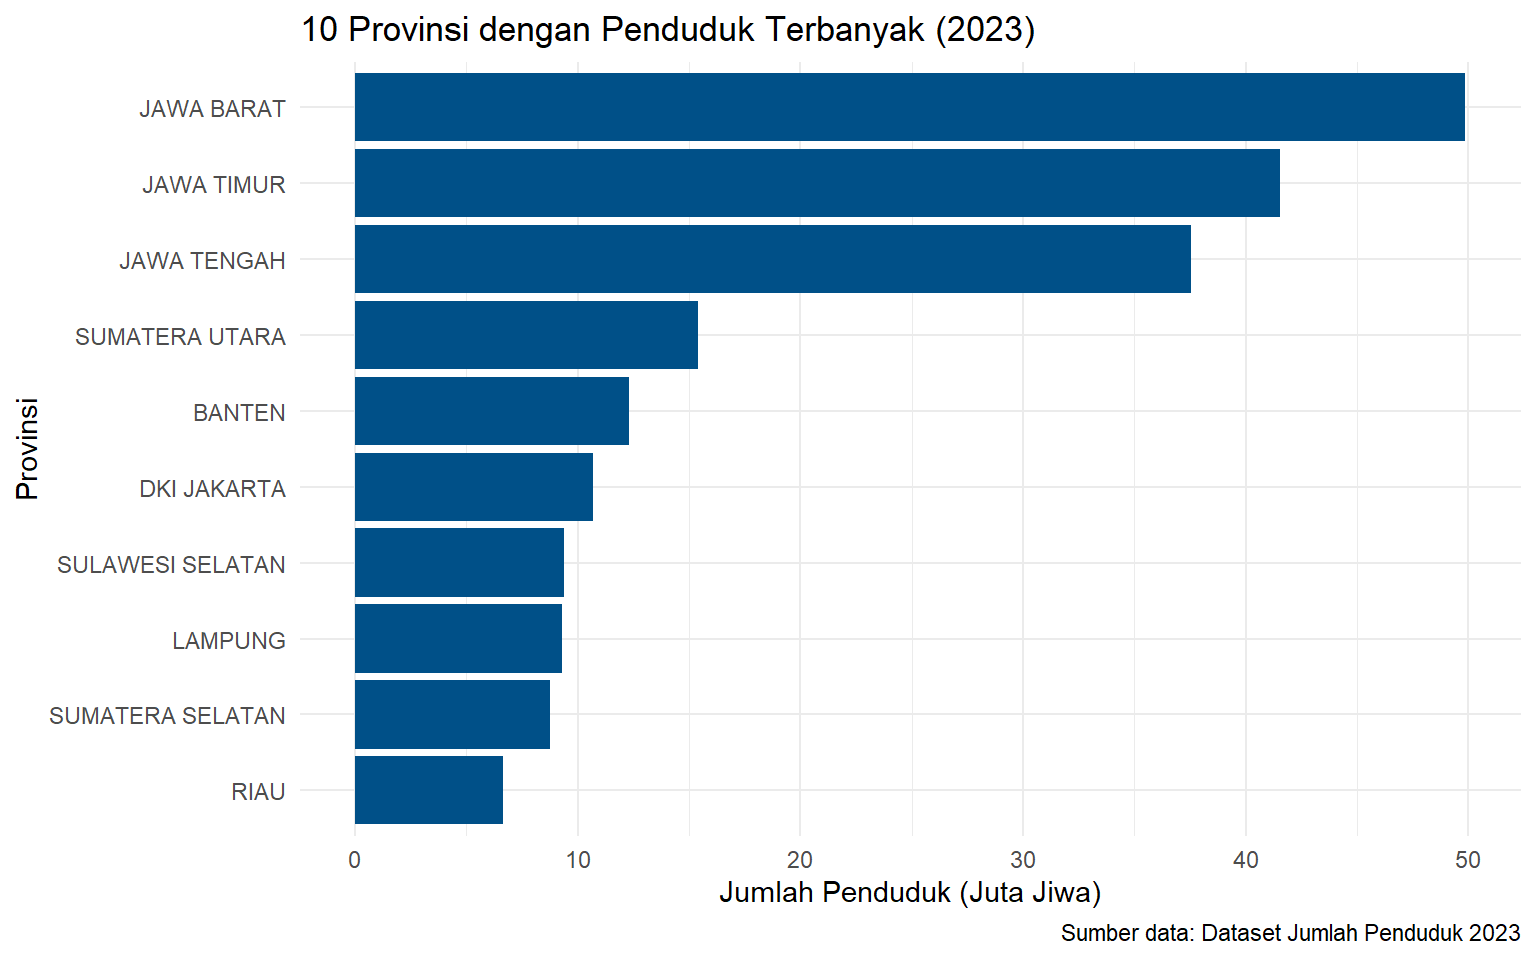
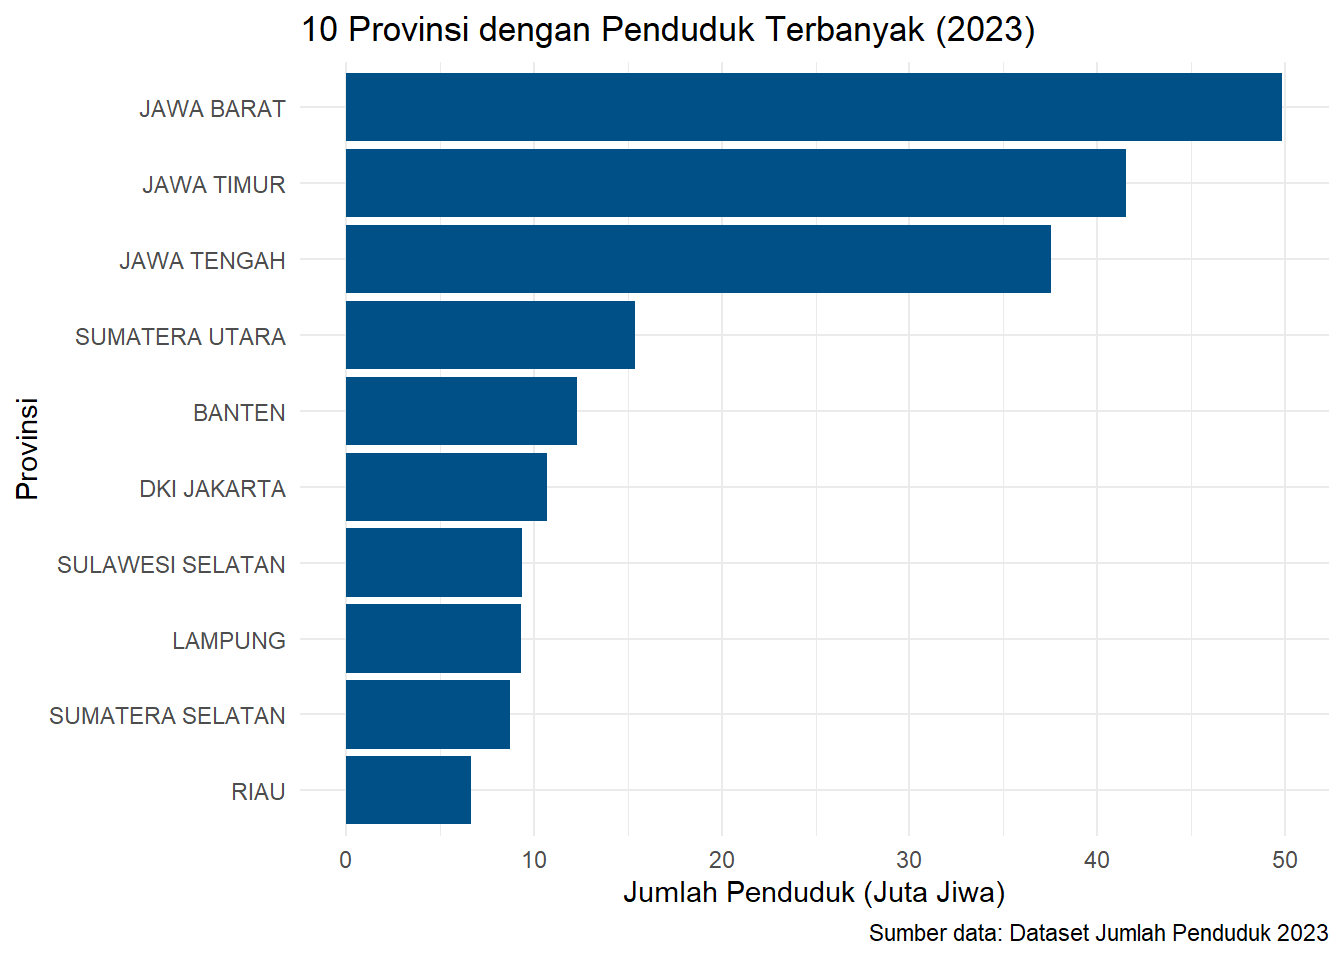
cover halaman, daftar isi

diff --git a/coba_laporan.html b/coba_laporan.html
@@ -45,6 +45,20 @@ ul.task-list li input[type="checkbox"] {
         background: #004488;
       }
 </style>
+<style>
+  body {
+    column-count: 2;
+    column-gap: 2em;
+  }
+  /* Agar judul dan daftar isi tetap satu kolom penuh */
+  .quarto-title-block, #TOC, h1, h2, h3 {
+    column-span: all;
+  }
+  /* Agar tabel dan grafik tidak pecah antar kolom */
+  table, figure, .cell {
+    break-inside: avoid;
+  }
+</style>
 
 
 </head>
@@ -525,7 +539,7 @@ ul.task-list li input[type="checkbox"] {
 <div class="cell-output-display">
 <div>
 <figure class="figure">
-<p><img src="coba_laporan_files/figure-html/unnamed-chunk-4-1.png" class="img-fluid figure-img" width="768"></p>
+<p><img src="coba_laporan_files/figure-html/unnamed-chunk-4-1.png" class="img-fluid figure-img" width="672"></p>
 </figure>
 </div>
 </div>
@@ -537,7 +551,7 @@ ul.task-list li input[type="checkbox"] {
 <div class="cell-output-display">
 <div>
 <figure class="figure">
-<p><img src="coba_laporan_files/figure-html/unnamed-chunk-5-1.png" class="img-fluid figure-img" width="768"></p>
+<p><img src="coba_laporan_files/figure-html/unnamed-chunk-5-1.png" class="img-fluid figure-img" width="672"></p>
 </figure>
 </div>
 </div>